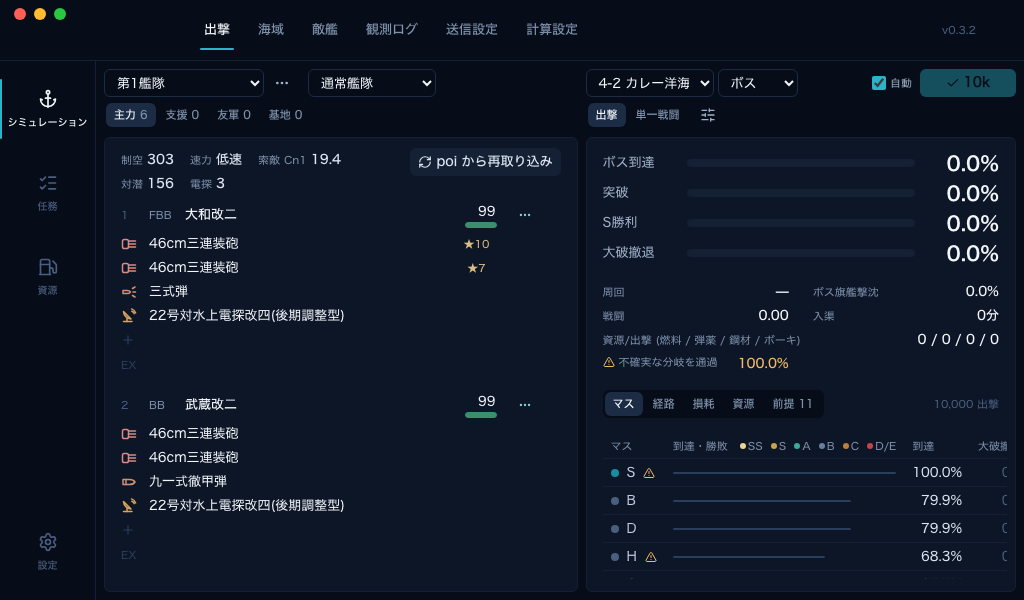
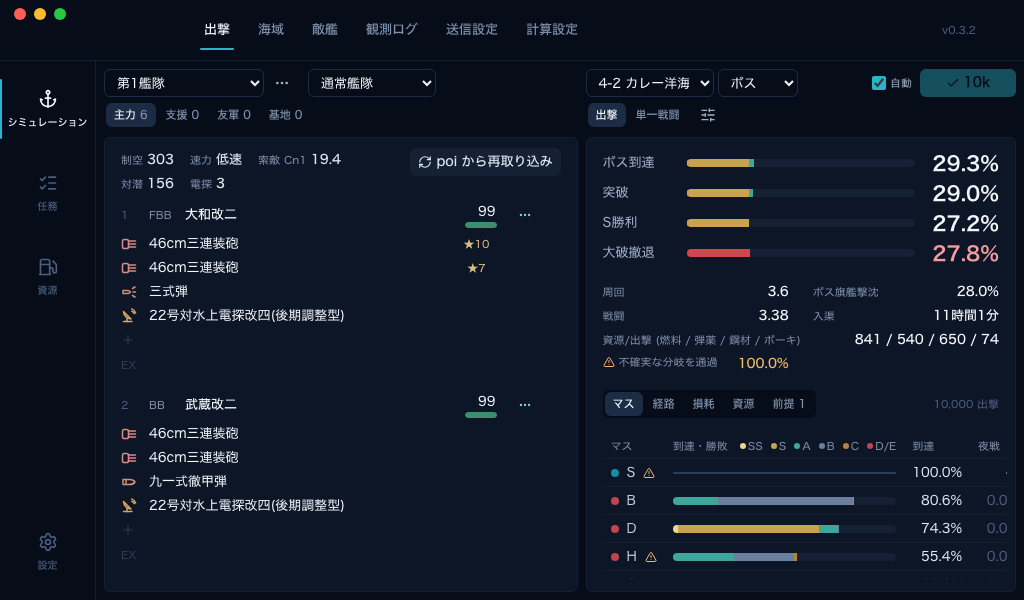
screenshots: map data from the static bundles when the local API has no enemy comps; fail on a 0% sortie
The local wrangler D1 has no KCNav enemy comps, so with it running the web script's 4-2 sortie
ran with no battles (0.0%) and 単一戦闘 had nothing to compute (waitResult timed out), and the
plugin's 19-plugin-embedded was shot at 0.0% / 周回 — / 資源 0 (since 8d7cfac; 059fd0b's was
taken with the API down, i.e. from the bundles). Not an app regression: production serves the
comps (4-2 boss 28.7%, 単一戦闘 runs).

Both scripts now check the API's boot view for comps on 4-2 and, without them, abort
/api/v1/views/map/* so the web UI falls back to /maps (replaces the plugin's opt-in
MAPS_FROM_BUNDLES), and fail if the sample fleet never reaches the boss. The web script returns
the mode to 出撃 with the mode switch after the 単一戦闘 shot (`.first()` was the chrome tab):
with API maps lacking comps the battle map list holds only 4-2, so the 自動 check could not
change the map. Docs shots 19, 23 retaken.

diff --git a/web/scripts/screenshots.ts b/web/scripts/screenshots.ts
@@ -3,6 +3,8 @@
  * `bun run screenshots`。出力は SHOTS_DIR (既定 docs/screenshots)、ファイル名の頭に SHOTS_PREFIX を付ける。
  * docs に置いているのは 23-web-sortie (ブラウザで開いた 出撃、1024×600) だけで、他は確認用。
  * データ API は vite が KCSIM_API (既定 127.0.0.1:8787) に中継し、落ちていれば静的バンドル (server/dist/maps) を使う。
+ * API に MAP の敵編成が無ければ (KCNav の敵編成を入れていない手元の D1)、海域のデータ (/api/v1/views/map/*) だけ
+ * API を通さず静的バンドルを使わせる (そのままでは出撃は戦闘 0 回で 0%、単一戦闘は計算できない)。
  * ブラウザは playwright のキャッシュにある chromium_headless_shell を使う (CHROMIUM_PATH で上書き可)。
  * 枠: 左のバーは シミュ / 任務 / 設定 (資源はプラグインだけ)、シミュの上のタブは 出撃 / 海域 / 敵艦 / 計算設定
  * (観測ログ・送信設定はプラグインだけ) であること。
@@ -22,6 +24,11 @@ const PORT = 5199;
 const URL = `http://localhost:${PORT}/`;
 /** 出撃結果を撮る海域 (同梱サンプルの第1艦隊でボスに届く) */
 const MAP = process.env.SHOTS_MAP ?? "4-2";
+const API = process.env.KCSIM_API ?? "http://127.0.0.1:8787";
+type Boot = { maps: { key: string; compSetCount: number }[] };
+const apiHasComps = await fetch(`${API}/api/v1/views/boot`)
+  .then(async (r) => ((await r.json()) as Boot).maps.some((m) => m.key === MAP && m.compSetCount > 0))
+  .catch(() => false);
 
 const findChromium = (): string => {
   if (process.env.CHROMIUM_PATH) return process.env.CHROMIUM_PATH;
@@ -43,6 +50,10 @@ const server = await startDevServer(PORT, process.env.KCSIM_API);
 const browser = await chromium.launch({ executablePath: findChromium() });
 const page = await browser.newPage({ viewport: { width: 1280, height: 800 }, deviceScaleFactor: 1 });
 page.on("pageerror", (e) => console.error("[pageerror]", e.message));
+if (!apiHasComps) {
+  console.log(`no enemy comps for ${MAP} in the data API (${API}): map data from the static bundles`);
+  await page.route("**/api/v1/views/map/**", (r) => r.abort());
+}
 
 const shot = async (name: string, opts: { fullPage?: boolean } = {}) => {
   await page.screenshot({ path: join(OUT, `${PREFIX}${name}.png`), fullPage: opts.fullPage ?? false });
@@ -113,6 +124,8 @@ try {
   if (await run.isEnabled()) throw new Error("実行 is enabled although the shown result is current");
   const kpi = await page.locator("[data-results]").first().innerText();
   console.log("---- sortie ----\n" + kpi.split("\n").slice(0, 24).join(" | "));
+  // 敵編成の無い海域のデータでは戦闘 0 回の 0% になる (その結果を撮らない)
+  if (/ボス到達\n0\.0%/.test(kpi)) throw new Error(`${MAP}: the sample fleet never reaches the boss (no enemy comps in the map data?)`);
   await checkNoScroll("1280x800");
   await shot("workspace-1280");
   // ブラウザで開いた 出撃 (docs、1024×600)
@@ -166,7 +179,9 @@ try {
   await waitResult(prev);
   await checkNoScroll("battle 1280x800");
   await shot("08-workspace-battle");
-  await page.getByRole("tab", { name: "出撃", exact: true }).first().click();
+  // モードを出撃に戻す (枠のタブ列の「出撃」でなく、main の中のモード切り替え)。単一戦闘の海域の一覧は API に敵編成の
+  // ある海域だけで、敵編成の無い手元の D1 では MAP しか無く、下の 自動 の確認で海域を変えられない
+  await page.locator("main").getByRole("tab", { name: "出撃", exact: true }).click();
 
   // 海域タブ
   await tab("海域");
@@ -177,7 +192,7 @@ try {
     await shot("09-map-routing");
   }
 
-  const apiUp = await fetch(`${process.env.KCSIM_API ?? "http://127.0.0.1:8787"}/api/v1/health`).then((r) => r.ok, () => false);
+  const apiUp = await fetch(`${API}/api/v1/health`).then((r) => r.ok, () => false);
   if (apiUp) {
     await tab("敵艦");
     await page.getByPlaceholder("検索").fill("駆逐イ級");

diff --git a/poi-plugin-sim/scripts/screenshots.ts b/poi-plugin-sim/scripts/screenshots.ts
@@ -9,8 +9,8 @@
  * (プラグインと iframe の中) がスクロールしない。
  * ブラウザは playwright のキャッシュにある chromium_headless_shell を使う (CHROMIUM_PATH で上書き可)。
  * 任務は Web UI の開発サーバが中継するデータ API (KCSIM_API、既定 127.0.0.1:8787) の /api/v1/quests を使う。
- * MAPS_FROM_BUNDLES=1 なら海域のデータ (/api/v1/views/map/*) だけ API を通さず、Web UI の代替の静的バンドル (/maps) を
- * 使わせる (手元の D1 に KCNav の敵編成が無いと出撃の結果が 0% になるため)。
+ * API に出撃を撮る海域 (MAP) の敵編成が無ければ (KCNav の敵編成を入れていない手元の D1)、海域のデータ
+ * (/api/v1/views/map/*) だけ API を通さず Web UI の代替の静的バンドル (/maps) を使わせる (そのままでは結果が 0%)。
  */
 import { chromium } from "playwright-core";
 import { existsSync, mkdirSync, readdirSync } from "node:fs";
@@ -28,6 +28,13 @@ const DOC = { width: 1024, height: 600 };
 const BUTTONS = { width: 120, height: 42 };
 /** 任務タブで選んでおく任務 (A88 最精鋭甲型駆逐艦、集結せよ！: 前提が多い) */
 const QUEST = 193;
+/** 出撃を撮る海域 (同梱サンプルの第1艦隊でボスに届く) */
+const MAP = "4-2";
+const API = process.env.KCSIM_API ?? "http://127.0.0.1:8787";
+type Boot = { maps: { key: string; compSetCount: number }[] };
+const apiHasComps = await fetch(`${API}/api/v1/views/boot`)
+  .then(async (r) => ((await r.json()) as Boot).maps.some((m) => m.key === MAP && m.compSetCount > 0))
+  .catch(() => false);
 
 const findChromium = (): string => {
   if (process.env.CHROMIUM_PATH) return process.env.CHROMIUM_PATH;
@@ -78,7 +85,10 @@ await context.addInitScript(
   },
   { quest: QUEST, webPort: WEB_PORT }
 );
-if (process.env.MAPS_FROM_BUNDLES) await context.route("**/api/v1/views/map/**", (r) => r.abort());
+if (!apiHasComps) {
+  console.log(`no enemy comps for ${MAP} in the data API (${API}): map data from the static bundles`);
+  await context.route("**/api/v1/views/map/**", (r) => r.abort());
+}
 const main = await context.newPage();
 for (const p of [main]) {
   p.on("pageerror", (e) => console.error("[pageerror]", e.message));
@@ -184,7 +194,7 @@ try {
   await web.locator("span[title^='この入力の']").waitFor({ timeout: 60_000 });
   // ボスに届く海域 (同梱サンプルの第1艦隊で) に替え、その結果が出るまで待つ (結果の欄が変わり、計算済みになる)
   const before = await webFrame().evaluate(() => (document.querySelector("[data-results]") as HTMLElement).innerText);
-  await web.getByLabel("海域").selectOption("4-2");
+  await web.getByLabel("海域").selectOption(MAP);
   await webFrame().waitForFunction(
     (prev) =>
       (document.querySelector("[data-results]") as HTMLElement).innerText !== prev &&
@@ -193,6 +203,9 @@ try {
     before,
     { timeout: 120_000 }
   );
+  // 敵編成の無い海域のデータでは戦闘 0 回の 0% になる (その結果を撮らない)
+  const results = await webFrame().evaluate(() => (document.querySelector("[data-results]") as HTMLElement).innerText);
+  if (/ボス到達\n0\.0%/.test(results)) throw new Error(`${MAP}: the sample fleet never reaches the boss (no enemy comps in the map data?)`);
   // 埋め込んだ Web UI は枠を描かない (左のバーも上の行もプラグインのもの 1 つだけ)
   if (await web.locator("[role=tablist][aria-orientation=vertical]").count()) throw new Error("the embedded web UI draws its activity bar");
   if (await web.getByRole("img", { name: "艦これ シミュレータ" }).count()) throw new Error("the embedded web UI draws its top row");

diff --git a/poi-plugin-sim/README.md b/poi-plugin-sim/README.md
@@ -62,10 +62,11 @@ the plugin's views and their CSS scoped to `.kcsim`), `i18n/`. No wasm and no wo
 Other commands: `bun test`, `bunx tsc --noEmit`, `bun run dev` (below), `bun run screenshots` (starts both dev servers,
 writes `docs/screenshots/{05-log-list,06-log-detail,08-plugin-upload,19-plugin-embedded,20-plugin-resources,21-plugin-resources-delta,22-plugin-quests}.png`
 at 1024x600, with poi's macOS drag strip and window buttons drawn over the top left; the 資源 shots use generated
-history from `dev/resourcesSeed.ts` and the 任務 shot the local data API's quests. It fails unless the bar and the top
+history from `dev/resourcesSeed.ts` and the 任務 shot the local data API's quests; map data comes from the static
+bundles when the API has no enemy comps for 4-2 (a local D1 without the KCNav ingest). It fails unless the bar and the top
 row stay in place in every feature and view, no tab sits under the window buttons, the tabs in the drag strip are
 `no-drag`, the plugin's tabs switch the iframe's view and the iframe's own moves come back, the embedded web UI draws no
-bars, and no page (the plugin's or the iframe's) scrolls at 1280x800 / 1200x710 / 1024x600), `bun dev/resources-smoke.ts`
+bars, the 4-2 sortie reaches the boss, and no page (the plugin's or the iframe's) scrolls at 1280x800 / 1200x710 / 1024x600), `bun dev/resources-smoke.ts`
 (feeds a scripted sequence of API responses through `startCapture` the way poi does, and prints what was recorded, a
 restart and the thinning).
 

diff --git a/web/README.md b/web/README.md
@@ -52,9 +52,10 @@ when `/api` fails). Deploying: `cd ../server && bun run deploy` builds this firs
 
 Scripts: `bun run sample` (regenerate `src/sampleState.json` from `@kancolle/data`), `bun run screenshots`
 (`docs/screenshots/` or `SHOTS_DIR`, file prefix `SHOTS_PREFIX`; docs keep `23-web-sortie` only; with the API down, e.g.
-`KCSIM_API=http://127.0.0.1:9`, it uses the static bundles; it fails if the bars are not シミュ / 任務 / 設定 with
-出撃 / 海域 / 敵艦 / 計算設定, or if the 出撃 tab scrolls, page or tab content, at 1280×800, 1200×710 or 1024×600),
-`bun run audit [--offline]`.
+`KCSIM_API=http://127.0.0.1:9`, it uses the static bundles, and it takes map data from them when the API has no enemy
+comps for the shot's map (a local D1 without the KCNav ingest); it fails if the bars are not シミュ / 任務 / 設定 with
+出撃 / 海域 / 敵艦 / 計算設定, if the sample fleet never reaches the boss, or if the 出撃 tab scrolls, page or tab
+content, at 1280×800, 1200×710 or 1024×600), `bun run audit [--offline]`.
 
 ## 出撃 workspace
 
